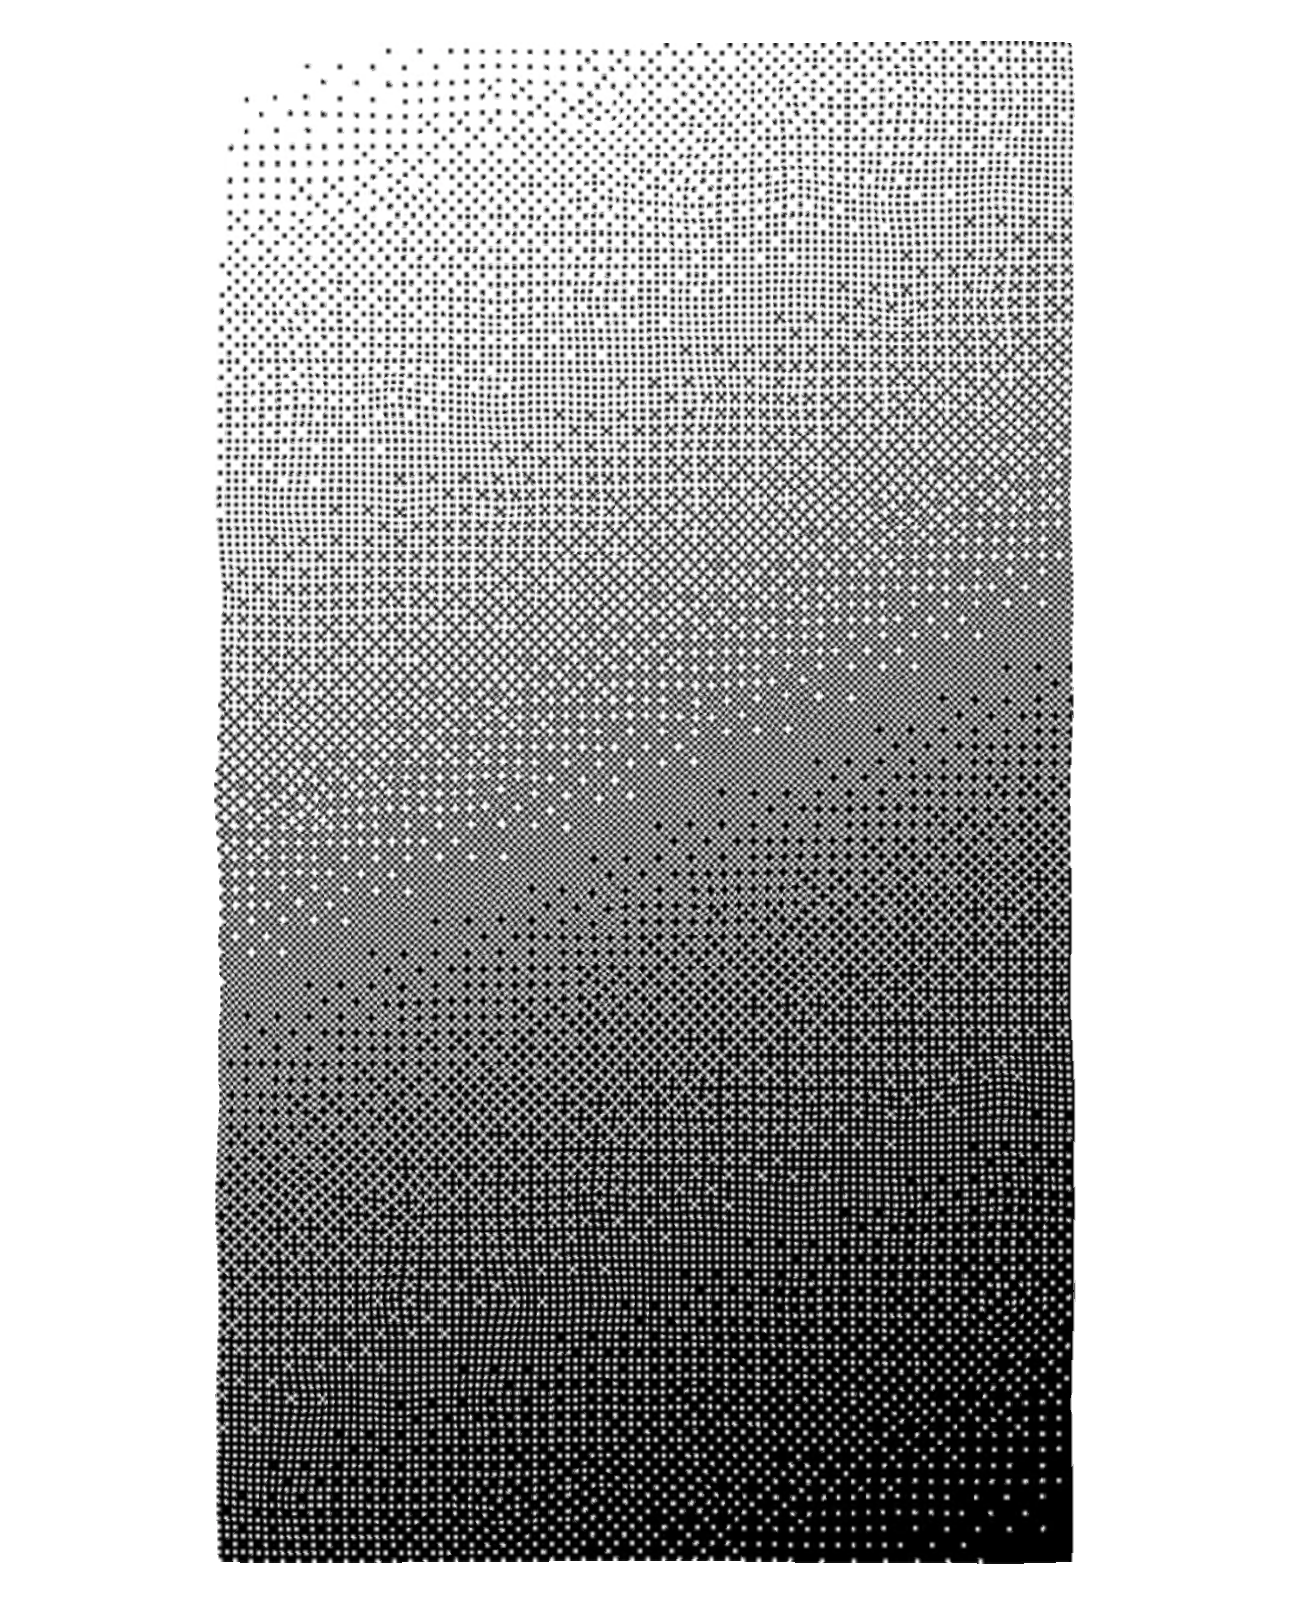
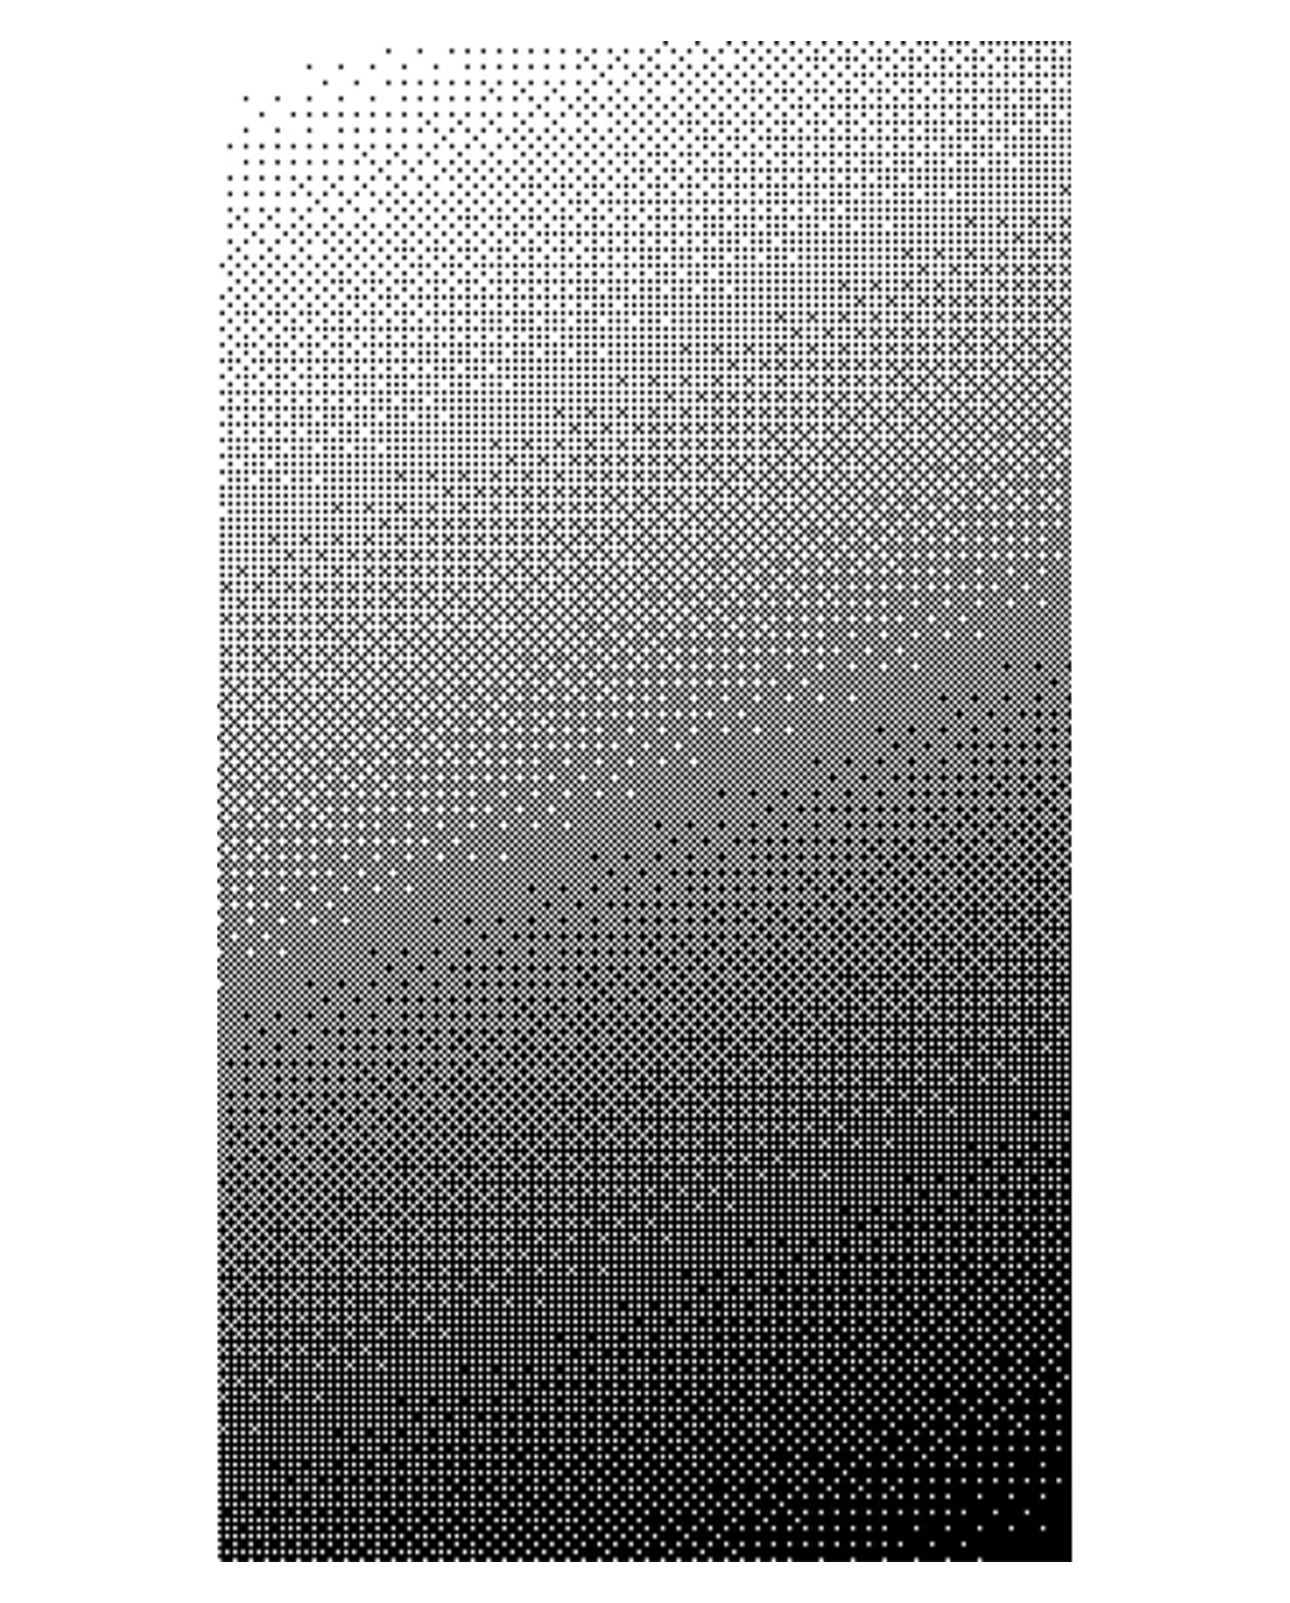
settings

diff --git a/settings.cpp b/settings.cpp
@@ -13,26 +13,26 @@ const QString videoPath = "../color-me-noisy/source_videos/cicero_1.mov";
 // Enables boundary-aware sampling. true preserves watercolor border texture but
 // adds mask creation and more constrained PatchMatch search; false is faster and
 // uses the original single-source PatchMatch behavior.
-const bool useBorder = true;
+const bool useBorder = false;
 
 // Deforms the source texture once per processed frame before building its
 // pyramid. true adds organic texture variation but costs a full deformation pass
 // per frame. false is faster and keeps the source texture stable/repeatable.
-const bool deformTexture = true;
+const bool deformTexture = false;
 
 // Patch radius in pixels. Larger patches preserve broader texture structure but
 // are much slower because each candidate compares (2r+1)^2 pixels. Smaller
 // patches are faster and more local, but can look noisier or less coherent.
-const int patchRadius = 8;
+const int patchRadius = 6;
 
 // PatchMatch sweep count. More iterations usually improve matches and temporal/
 // spatial coherence, but runtime scales roughly linearly. Fewer iterations are
 // faster but can leave obviously wrong colors/patches.
-const int patchmatchIterations = 7;
+const int patchmatchIterations = 4;
 
 // Reserved for outer Wexler-style refinement passes. Increasing would multiply
 // the cost of the synthesis loop if wired in; currently kept as a tuning value.
-const int wexlerIterations = 2;
+const int wexlerIterations = 1;
 
 // Source deformation control grid spacing. Larger values deform the texture more
 // smoothly and cheaply. Smaller values allow more local warping but cost more in
@@ -42,7 +42,7 @@ const int gridSize = 100;
 // Pyramid blur/downsampling control. Larger values create more/coarser pyramid
 // smoothing and can improve large-scale coherence, but add pyramid levels/work.
 // Smaller values are faster and sharper, but may make matching less stable.
-const float filterStrength = 1.2f;
+const float filterStrength = 0.5f;
 
 // Pixels with all RGB channels above this are treated as white background by the
 // automatic border detector. Raising it makes background detection stricter;
